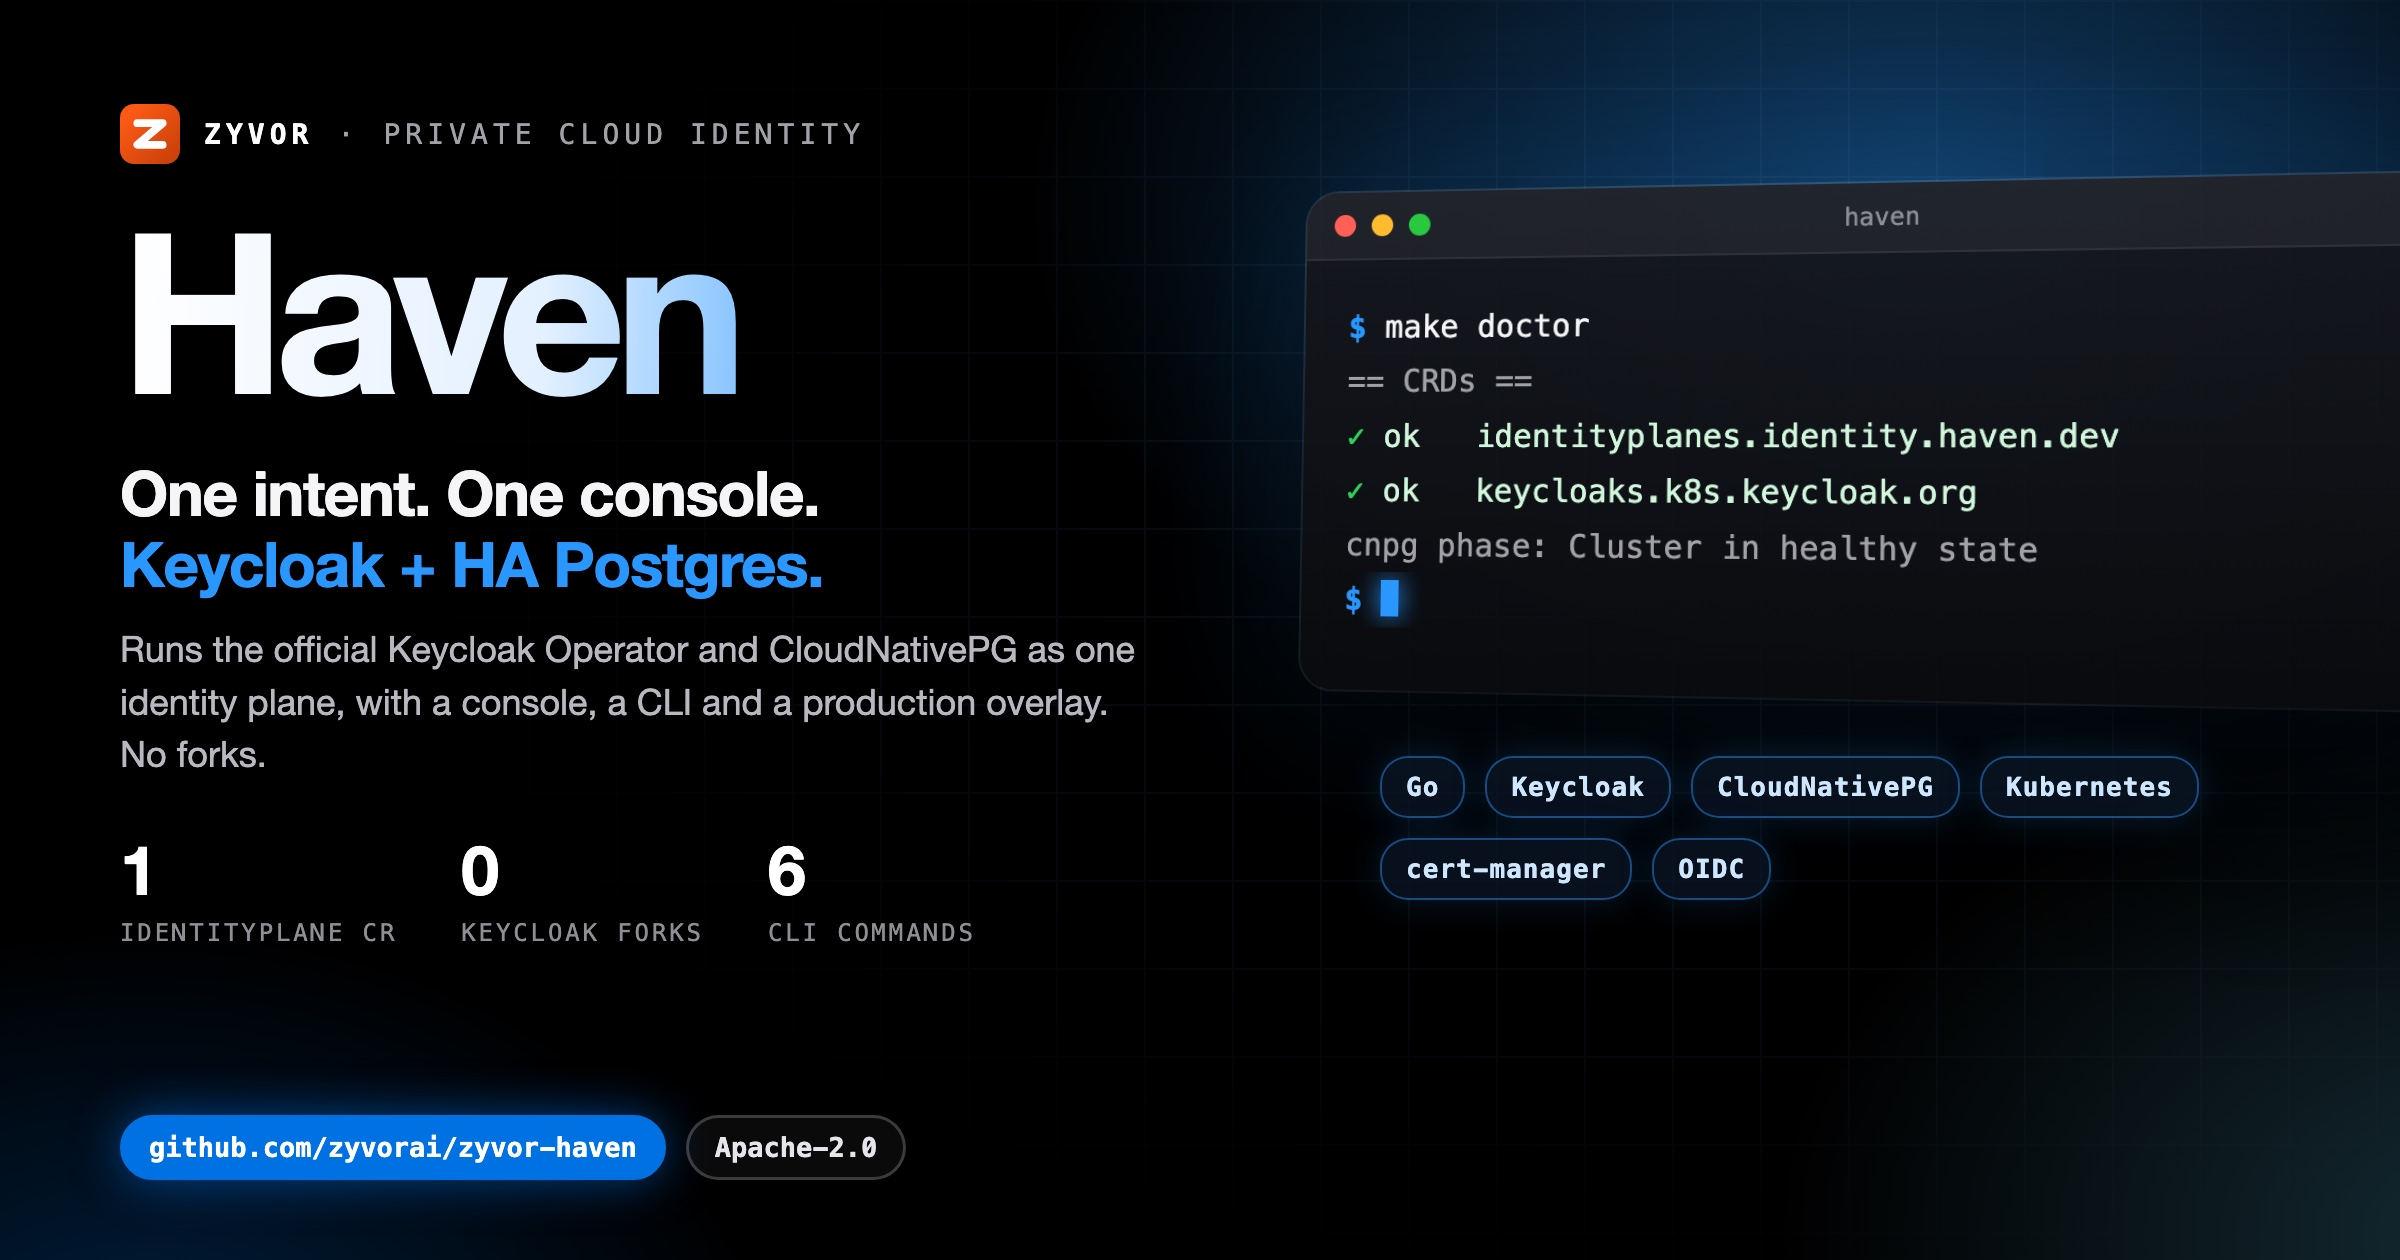
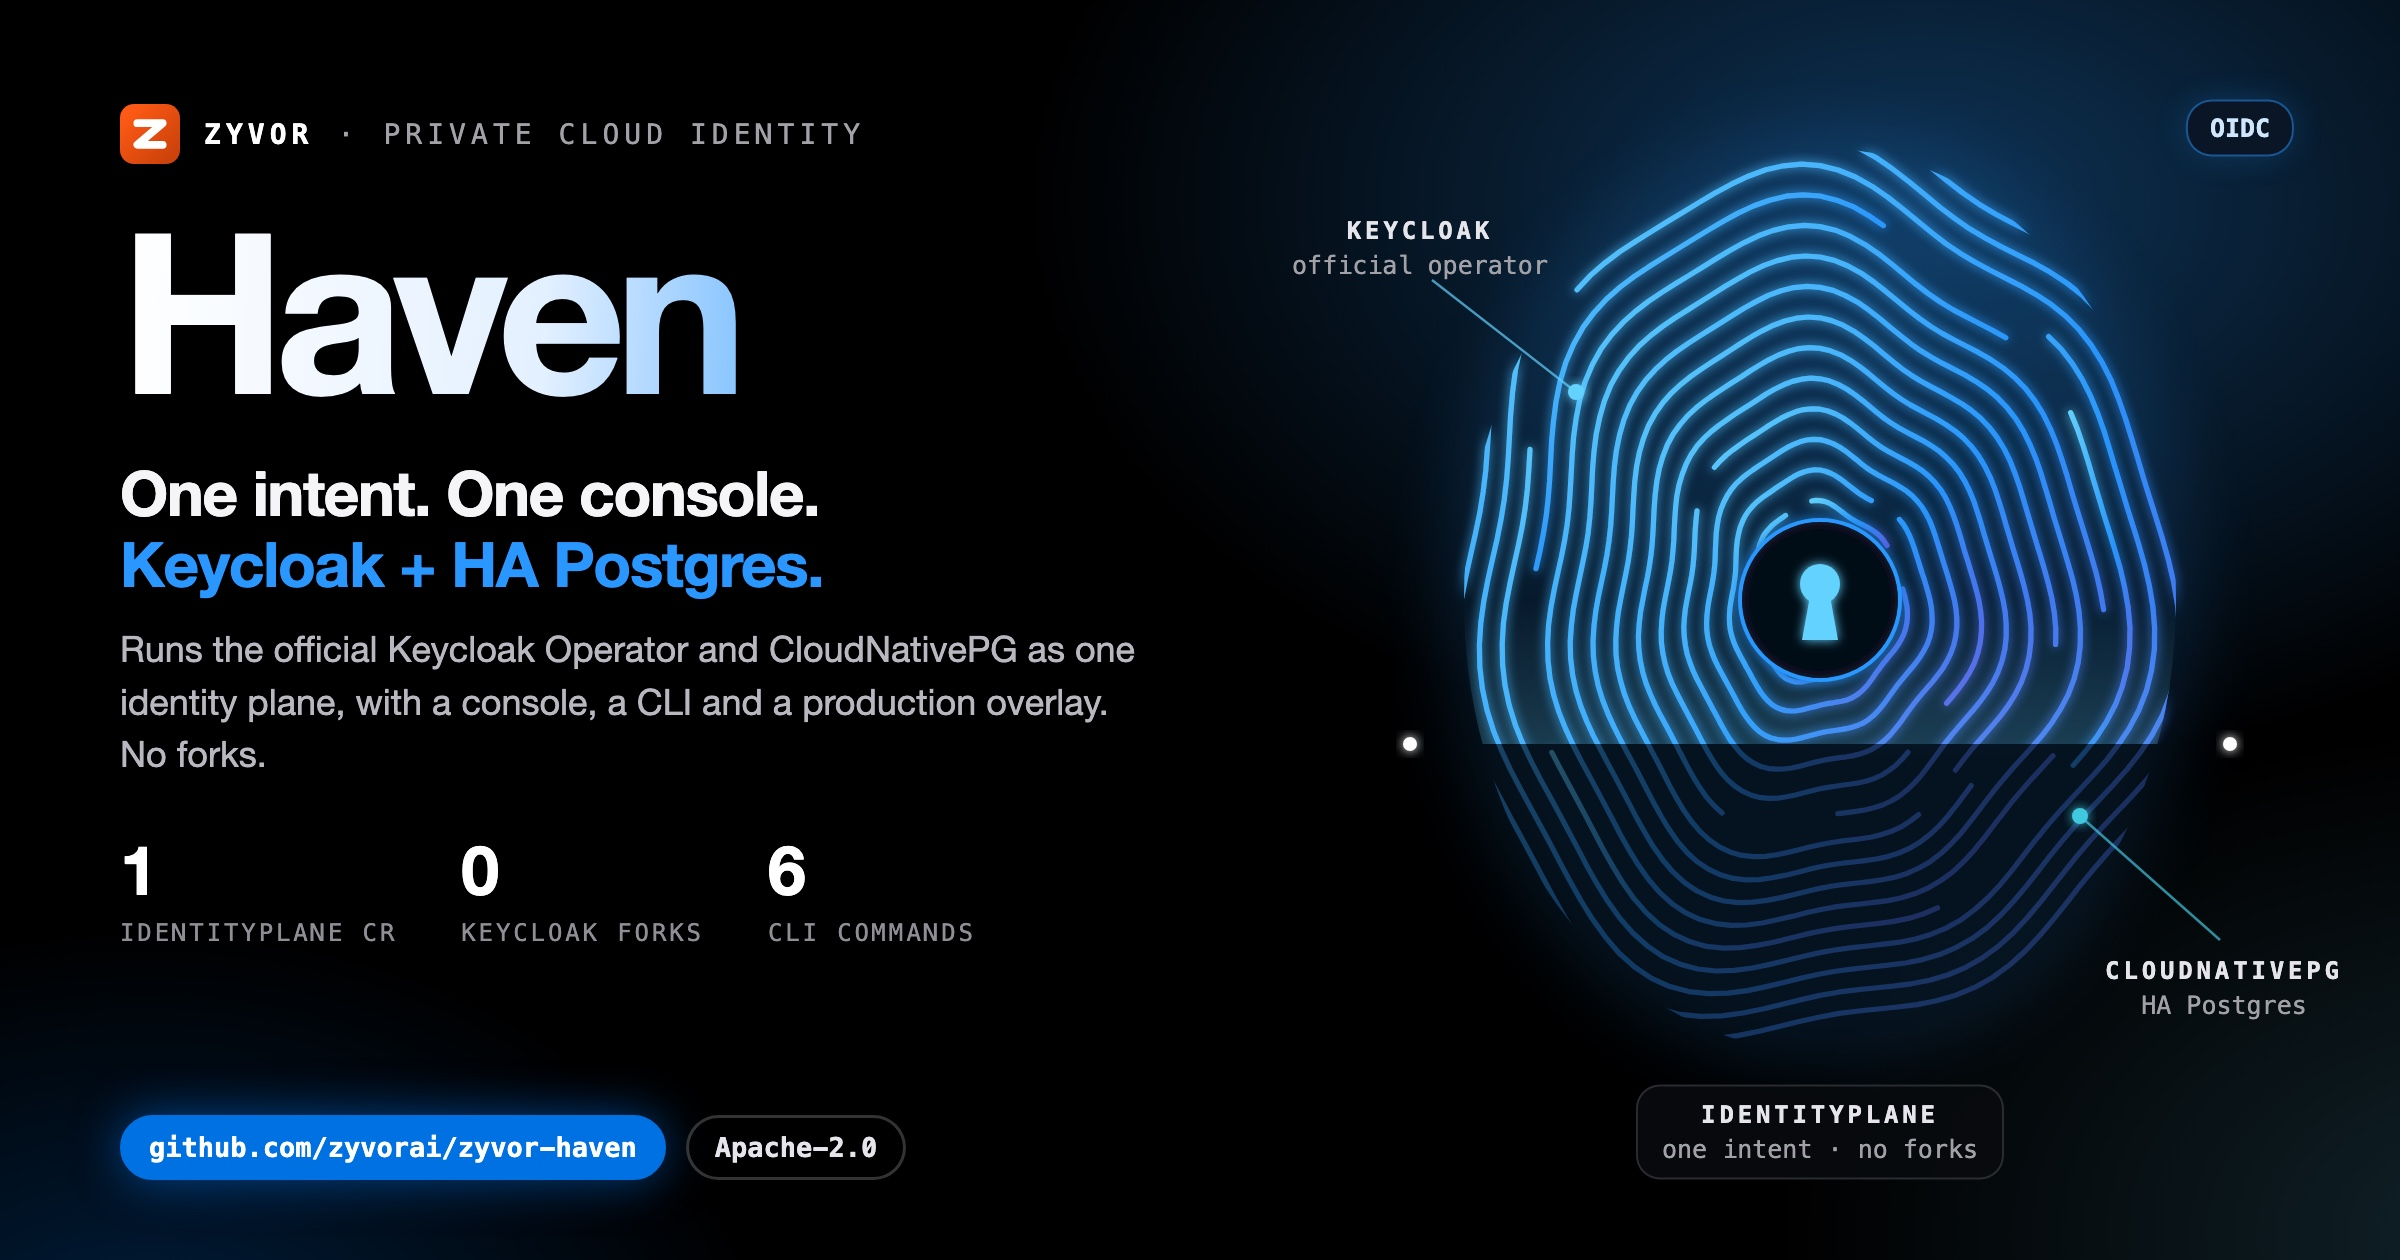
docs(social): unique illustrated hero card
Replace the shared terminal-window art with a motif drawn for this project;
same verified copy and stats on the left.

Changed region(s): [[0.5312, 0.0619, 1.0, 0.8357], [0.6875, 0.8667, 0.8438, 0.9286], [0.875, 0.7429, 0.9688, 0.8048]]

diff --git a/docs/social/haven-hero-dark.html b/docs/social/haven-hero-dark.html
@@ -8,58 +8,47 @@
   Build: ./docs/social/build-hero-dark.sh  ->  haven-hero-dark.jpg (2400x1260)
 -->
 <style>
-  :root { --blue:#0071e3; --signal:#2997ff; --cyan:#64d2ff; --green:#30d158; --amber:#ff9f0a;
+  :root { --blue:#0071e3; --signal:#2997ff; --cyan:#64d2ff; --green:#30d158; --amber:#ff9f0a; --red:#ff453a; --violet:#bf5af2;
     --sans:'SF Pro Display','Helvetica Neue',Helvetica,Arial,sans-serif; --mono:'SF Mono',Menlo,Consolas,monospace; }
   * { box-sizing:border-box; }
   html,body { margin:0; padding:0; }
   body { width:1200px; height:630px; overflow:hidden; color:#f5f5f7; font-family:var(--sans); position:relative; background:#000; }
   .aurora { position:absolute; inset:0;
-    background:radial-gradient(720px 460px at 80% 16%, rgba(41,151,255,.40), transparent 62%),
-               radial-gradient(600px 420px at 104% 98%, rgba(100,210,255,.20), transparent 60%),
+    background:radial-gradient(720px 460px at 80% 16%, rgba(41,151,255,.34), transparent 62%),
+               radial-gradient(600px 420px at 104% 98%, rgba(100,210,255,.16), transparent 60%),
                radial-gradient(520px 380px at 6% 110%, rgba(0,113,227,.28), transparent 60%); }
-  .grid { position:absolute; inset:0; opacity:.09;
-    background-image:linear-gradient(rgba(120,180,255,.9) 1px,transparent 1px),linear-gradient(90deg,rgba(120,180,255,.9) 1px,transparent 1px);
-    background-size:44px 44px; -webkit-mask-image:radial-gradient(900px 520px at 72% 42%, #000 18%, transparent 75%); }
-  .left { position:absolute; left:60px; top:52px; width:560px; z-index:3; }
+  .copy { position:absolute; left:60px; top:52px; width:560px; z-index:3; }
   .brand { display:flex; align-items:center; gap:12px; font-family:var(--mono); font-size:14px; letter-spacing:.18em; text-transform:uppercase; color:#a1a1a6; }
   .brand b { color:#fff; }
   .word { margin:20px 0 0; font-size:112px; line-height:.95; font-weight:800; letter-spacing:-.05em; white-space:nowrap;
     background:linear-gradient(92deg,#fff 0%,#e3f0ff 38%,var(--signal) 74%,var(--cyan) 100%); -webkit-background-clip:text; background-clip:text; color:transparent; padding-bottom:6px; }
   .tag { margin:14px 0 0; font-size:31px; line-height:1.15; font-weight:700; letter-spacing:-.02em; }
   .tag em { font-style:normal; color:var(--signal); }
-  .lede { margin:12px 0 0; font-size:18px; line-height:1.45; color:#b8b8bf; width:520px; }
+  .lede { margin:12px 0 0; font-size:18px; line-height:1.45; color:#b8b8bf; width:520px; text-shadow:0 1px 12px #000; }
   .stats { margin-top:24px; display:flex; gap:32px; }
   .stat b { display:block; font-size:34px; font-weight:800; letter-spacing:-.03em; color:#fff; }
   .stat span { font-family:var(--mono); font-size:12px; letter-spacing:.12em; text-transform:uppercase; color:#8e8e93; }
   .pill { position:absolute; left:60px; bottom:40px; display:flex; gap:10px; z-index:3; }
-  .pill span { font-family:var(--mono); font-size:13.5px; font-weight:700; padding:7px 13px; border-radius:18px; border:1.5px solid rgba(255,255,255,.2); color:#e5e5ea; background:rgba(255,255,255,.04); }
+  .pill span { font-family:var(--mono); font-size:13.5px; font-weight:700; padding:7px 13px; border-radius:18px; border:1.5px solid rgba(255,255,255,.2); color:#e5e5ea; background:rgba(0,0,0,.6); }
   .pill span.b { background:var(--blue); border-color:var(--blue); color:#fff; box-shadow:0 0 24px rgba(0,113,227,.55); }
-
-  .right { position:absolute; left:652px; top:96px; width:560px; z-index:2; }
-  .win { position:relative; width:560px; border-radius:16px; overflow:hidden; z-index:2;
-    background:linear-gradient(180deg, rgba(22,24,30,.94), rgba(10,11,14,.96));
-    box-shadow:0 50px 100px rgba(0,0,0,.75), 0 0 0 1px rgba(255,255,255,.14), 0 0 90px rgba(41,151,255,.22);
-    transform:perspective(1600px) rotateY(-14deg) rotateX(4deg); transform-origin:left center; }
-  .bar { height:34px; display:flex; align-items:center; gap:8px; padding:0 14px; background:rgba(255,255,255,.05); border-bottom:1px solid rgba(255,255,255,.07); }
-  .bar i { width:11px; height:11px; border-radius:50%; background:#ff5f57; } .bar i:nth-child(2){background:#febc2e} .bar i:nth-child(3){background:#28c840}
-  .bar em { margin-left:auto; margin-right:auto; font-style:normal; font-family:var(--mono); font-size:12px; color:#8e8e93; transform:translateX(-24px); }
-  .term { min-height:214px; padding:20px 22px 24px; font-family:var(--mono); font-size:15.5px; line-height:1.75; }
-  .l { white-space:pre; overflow:hidden; text-overflow:ellipsis; color:#f5f5f7; }
-  .l .p { color:var(--signal); font-weight:700; }
-  .l.out { color:#a1a1a6; }
-  .l.cm { color:#6e6e73; }
-  .l.ok { color:#d1f7dc; } .l.ok span { color:var(--green); font-weight:700; }
-  .l.warn { color:#ffe1b0; } .l.warn span { color:var(--amber); font-weight:700; }
-  .cur { display:inline-block; width:9px; height:18px; background:var(--signal); vertical-align:-3px; box-shadow:0 0 12px var(--signal); }
-  .chips { margin:34px 0 0 38px; width:480px; display:flex; flex-wrap:wrap; gap:10px; position:relative; z-index:3; }
-  .chips span { font-family:var(--mono); font-size:13px; font-weight:700; letter-spacing:.04em; padding:7px 12px; border-radius:14px;
-    color:#cfe6ff; background:rgba(10,20,35,.82); border:1px solid rgba(41,151,255,.45); box-shadow:0 0 18px rgba(41,151,255,.18); }
+  .art { position:absolute; left:520px; top:0; width:680px; height:630px; z-index:2; }
+  .art svg { display:block; }
+  #labels { position:absolute; inset:0; z-index:4; pointer-events:none; }
+  .lbl { position:absolute; font-family:var(--mono); font-size:12.5px; color:#a1a1a6; text-align:center; transform:translate(-50%,-50%); white-space:nowrap; }
+  .lbl b { display:block; font-size:12px; letter-spacing:.16em; text-transform:uppercase; color:#e5e5ea; }
+  .lbl span { display:block; margin-top:3px; }
+  .lbl.box { padding:7px 12px; border-radius:12px; background:rgba(8,10,14,.85); border:1px solid rgba(255,255,255,.14); }
+  .lbl.chip { padding:6px 11px; border-radius:13px; font-size:12.5px; font-weight:700; color:#cfe6ff; background:rgba(10,20,35,.85); border:1px solid rgba(41,151,255,.5); box-shadow:0 0 16px rgba(41,151,255,.2); }
+  .lbl.left { transform:translate(0,-50%); text-align:left; }
+  .lbl.right { transform:translate(-100%,-50%); text-align:right; }
+  .ok { color:var(--green) !important; } .warn { color:var(--amber) !important; } .bad { color:var(--red) !important; } .sig { color:var(--signal) !important; } .cy { color:var(--cyan) !important; } .vi { color:var(--violet) !important; }
 </style>
 </head>
 <body>
 <div class="aurora"></div>
-<div class="grid"></div>
-<div class="left">
+<div class="art"><svg id="art" width="680" height="630" viewBox="0 0 680 630" xmlns="http://www.w3.org/2000/svg"></svg></div>
+<div id="labels"></div>
+<div class="copy">
   <div class="brand"><svg viewBox="0 0 64 64" width="30" height="30" aria-hidden="true"><defs><linearGradient id="zb" x1="8" y1="8" x2="56" y2="56" gradientUnits="userSpaceOnUse"><stop offset="0" stop-color="#ff5a15"/><stop offset="1" stop-color="#cc420a"/></linearGradient></defs><rect width="64" height="64" rx="15" fill="url(#zb)"/><path d="M18.5,20.5 45.5,20.5 18.5,43.5 45.5,43.5" fill="none" stroke="#fff" stroke-width="8.3" stroke-linecap="round" stroke-linejoin="round"/></svg><b>Zyvor</b><span>&middot;</span><span>Private cloud identity</span></div>
   <div class="word">Haven</div>
   <div class="tag">One intent. One console.<br><em>Keycloak + HA Postgres.</em></div>
@@ -67,8 +56,74 @@
   <div class="stats"><div class="stat"><b>1</b><span>IdentityPlane CR</span></div><div class="stat"><b>0</b><span>Keycloak forks</span></div><div class="stat"><b>6</b><span>CLI commands</span></div></div>
 </div>
 <div class="pill"><span class="b">github.com/zyvorai/zyvor-haven</span><span>Apache-2.0</span></div>
-<div class="right"><div class="win"><div class="bar"><i></i><i></i><i></i><em>haven</em></div>
-<div class="term"><div class="l"><span class="p">$</span> make doctor</div><div class="l out">== CRDs ==</div><div class="l ok"><span>&#10003;</span> ok   identityplanes.identity.haven.dev</div><div class="l ok"><span>&#10003;</span> ok   keycloaks.k8s.keycloak.org</div><div class="l out">cnpg phase: Cluster in healthy state</div><div class="l"><span class="p">$</span> <i class="cur"></i></div></div></div>
-<div class="chips"><span>Go</span><span>Keycloak</span><span>CloudNativePG</span><span>Kubernetes</span><span>cert-manager</span><span>OIDC</span></div></div>
+<script>
+var Z = (function () {
+  var NS = 'http://www.w3.org/2000/svg', svg = document.getElementById('art'), labels = document.getElementById('labels');
+  var seed = 20261004;
+  function rnd() { seed = (seed * 1103515245 + 12345) % 2147483648; return seed / 2147483648; }
+  function el(tag, a, parent) { var n = document.createElementNS(NS, tag); for (var k in a) n.setAttribute(k, a[k]); (parent || svg).appendChild(n); return n; }
+  function g(attrs) { return el('g', attrs || {}); }
+  function label(x, y, inner, cls, style) { var d = document.createElement('div'); d.className = 'lbl ' + (cls || ''); d.style.left = (520 + x) + 'px'; d.style.top = y + 'px'; if (style) d.setAttribute('style', d.getAttribute('style') + ';' + style); d.innerHTML = inner; labels.appendChild(d); return d; }
+  return { NS: NS, svg: svg, W: 680, H: 630, rnd: rnd, el: el, g: g, label: label,
+    reseed: function (s) { seed = s; },
+    c: { blue: '#0071e3', signal: '#2997ff', cyan: '#64d2ff', green: '#30d158', amber: '#ff9f0a', red: '#ff453a', violet: '#bf5af2', teal: '#40c8e0', indigo: '#5e5ce6', pink: '#ff375f', white: '#f5f5f7', grey: '#8e8e93' } };
+})();
+(function () {
+// Haven: an identity fingerprint whose whorl closes around a glowing keyhole; a scan line reads it. Keycloak + CloudNativePG as one plane.
+var C = Z.c, cx = 390, cy = 300;
+var defs = Z.el('defs', {});
+defs.innerHTML = '<filter id="hvgl" x="-50%" y="-50%" width="200%" height="200%"><feGaussianBlur stdDeviation="2.6" result="b"/><feMerge><feMergeNode in="b"/><feMergeNode in="SourceGraphic"/></feMerge></filter>' +
+  '<filter id="hvsf" x="-50%" y="-50%" width="200%" height="200%"><feGaussianBlur stdDeviation="16"/></filter>' +
+  '<linearGradient id="hvrg" x1="0" y1="0" x2="1" y2="1"><stop offset="0" stop-color="#64d2ff"/><stop offset=".55" stop-color="#2997ff"/><stop offset="1" stop-color="#5e5ce6"/></linearGradient>' +
+  '<linearGradient id="hvscan" x1="0" y1="0" x2="0" y2="1"><stop offset="0" stop-color="#64d2ff" stop-opacity="0"/><stop offset="1" stop-color="#64d2ff" stop-opacity=".22"/></linearGradient>' +
+  '<clipPath id="hvclip"><ellipse cx="' + cx + '" cy="' + cy + '" rx="178" ry="226"/></clipPath>' +
+  '<clipPath id="hvabove"><rect x="0" y="0" width="680" height="372"/></clipPath>';
+Z.el('ellipse', { cx: cx, cy: cy, rx: 190, ry: 236, fill: C.signal, opacity: .12, filter: 'url(#hvsf)' });
+// ridges: a spiral whorl with organic wobble, broken into ridge segments
+function ridges(parent, strokeCol, baseOp, seed) {
+  Z.reseed(seed);
+  var grp = Z.el('g', { 'clip-path': 'url(#hvclip)' }, parent);
+  var turns = 15, steps = turns * 120, prev = null, seg = [], gapLeft = 0;
+  for (var i = 0; i <= steps; i++) {
+    var th = i / 120 * Math.PI * 2, r = 34 + th * 2.15;
+    var wob = 1 + 0.05 * Math.sin(th * 3 + 1.3) + 0.03 * Math.sin(th * 7);
+    var x = cx + r * wob * Math.cos(th) * 0.86, y = cy + r * wob * Math.sin(th) * 1.08 - Math.max(0, r - 120) * 0.12 * (1 + Math.sin(th)) ;
+    if (gapLeft > 0) { gapLeft--; if (seg.length) { flush(); } continue; }
+    seg.push(x.toFixed(1) + ',' + y.toFixed(1));
+    if (Z.rnd() < 0.006 && seg.length > 20) { flush(); gapLeft = 4 + Math.floor(Z.rnd() * 10); }
+  }
+  flush();
+  function flush() {
+    if (seg.length > 2) Z.el('polyline', { points: seg.join(' '), fill: 'none', stroke: strokeCol, 'stroke-width': 2.6, 'stroke-linecap': 'round', 'stroke-linejoin': 'round', opacity: baseOp }, grp);
+    seg = [];
+  }
+}
+var dim = Z.el('g', {});
+ridges(dim, 'url(#hvrg)', 0.32, 7);
+var lit = Z.el('g', { 'clip-path': 'url(#hvabove)', filter: 'url(#hvgl)' });
+ridges(lit, 'url(#hvrg)', 0.95, 7);
+// scan line
+Z.el('rect', { x: cx - 200, y: 300, width: 400, height: 72, fill: 'url(#hvscan)', 'clip-path': 'url(#hvclip)' });
+Z.el('line', { x1: cx - 205, y1: 372, x2: cx + 205, y2: 372, stroke: C.cyan, 'stroke-width': 2, filter: 'url(#hvgl)' });
+Z.el('circle', { cx: cx - 205, cy: 372, r: 3.5, fill: '#fff', filter: 'url(#hvgl)' });
+Z.el('circle', { cx: cx + 205, cy: 372, r: 3.5, fill: '#fff', filter: 'url(#hvgl)' });
+// keyhole core
+Z.el('circle', { cx: cx, cy: cy, r: 40, fill: 'rgba(6,10,18,.95)', stroke: C.signal, 'stroke-width': 2, filter: 'url(#hvgl)' });
+Z.el('path', { d: 'M' + (cx) + ',' + (cy - 20) + ' a11,11 0 1 1 -0.1,0 Z', fill: '#fff', opacity: 0 });
+Z.el('circle', { cx: cx, cy: cy - 8, r: 10, fill: C.cyan, filter: 'url(#hvgl)' });
+Z.el('path', { d: 'M' + (cx - 5) + ',' + (cy - 2) + ' L' + (cx + 5) + ',' + (cy - 2) + ' L' + (cx + 9) + ',' + (cy + 20) + ' L' + (cx - 9) + ',' + (cy + 20) + 'Z', fill: C.cyan, filter: 'url(#hvgl)' });
+// two halves of the plane
+function tag(x, y, tx, ty, col) {
+  Z.el('path', { d: 'M' + x + ',' + y + ' L' + tx + ',' + ty, stroke: col, 'stroke-width': 1.2, opacity: .7, fill: 'none' });
+  Z.el('circle', { cx: x, cy: y, r: 4, fill: col, filter: 'url(#hvgl)' });
+}
+tag(268, 196, 196, 140, C.cyan);
+tag(520, 408, 590, 470, C.teal);
+Z.label(190, 124, '<b>Keycloak</b><span>official operator</span>');
+Z.label(592, 494, '<b>CloudNativePG</b><span>HA Postgres</span>');
+Z.label(cx, 566, '<b>IdentityPlane</b><span>one intent &middot; no forks</span>', 'box');
+Z.label(600, 64, 'OIDC', 'chip');
+})();
+</script>
 </body>
 </html>
